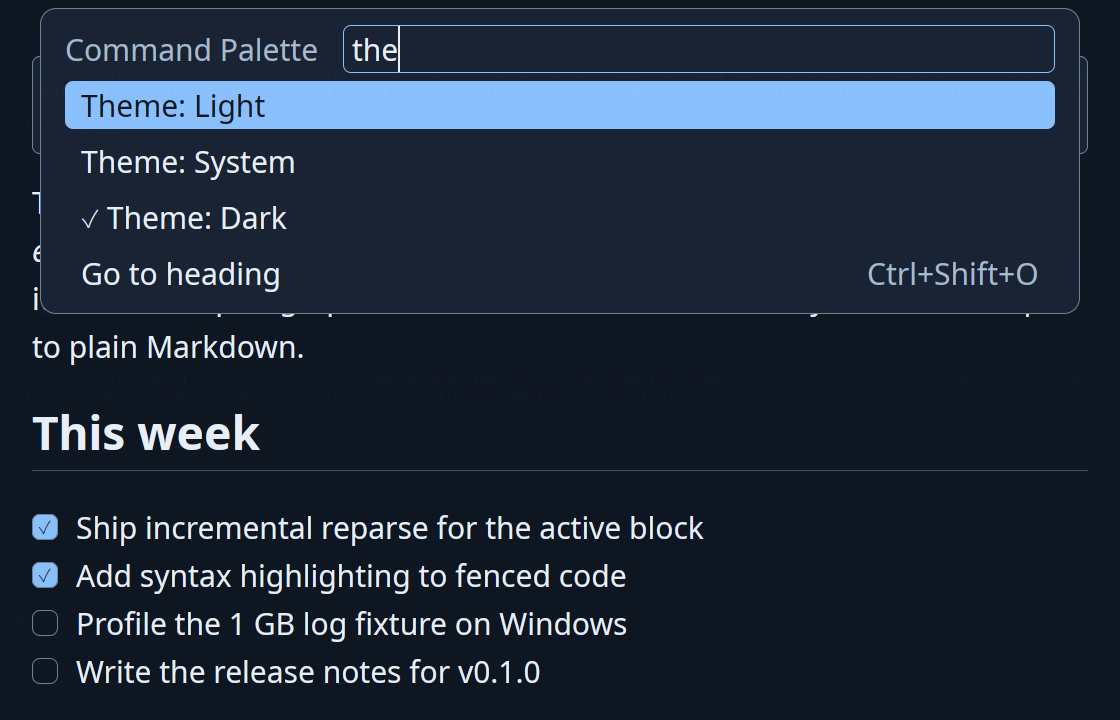
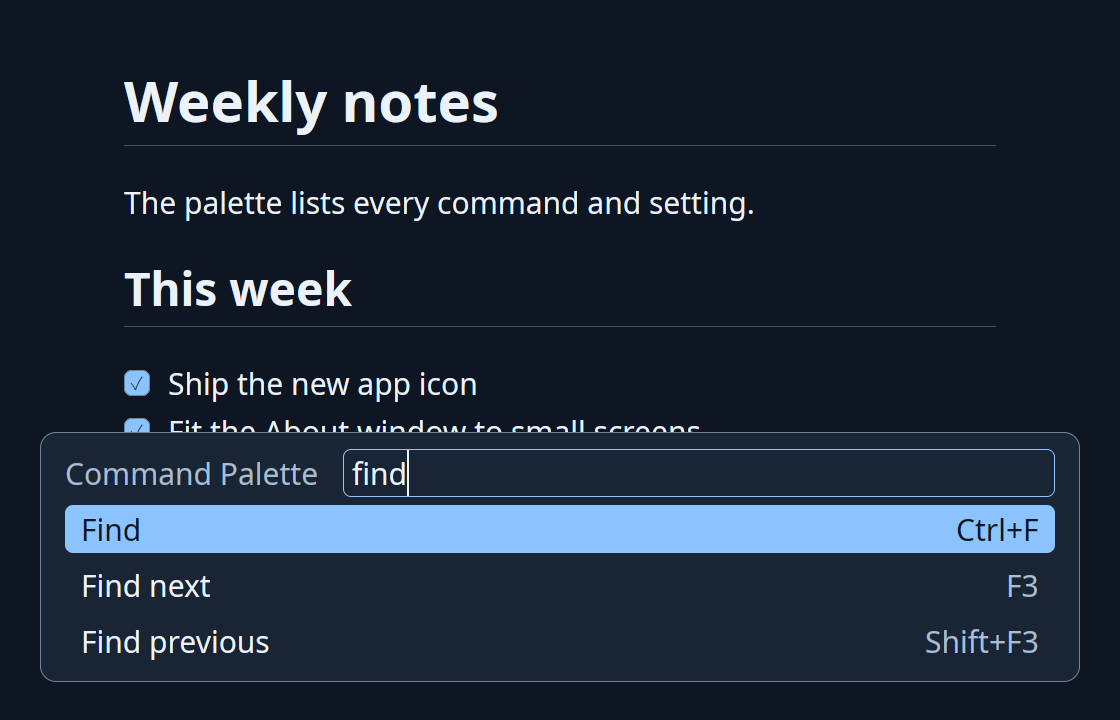
site: recapture the screenshot gallery; scroll hints; grid dots around the install cards
From a second web-design review of the live site. The three gallery images are new real
captures (lossless, 2x and Lanczos 1x); the old ones had a sentence split by a hard line break,
and their alt text claimed a 3 of 6 find counter and a shortcut on every palette row that the
images did not show. Alt text now matches each capture exactly. The compare table and the build
commands show an edge shadow while more is scrolled out of view, and a sparse grid-dot field sits
in the gaps around the install cards, never behind text.

diff --git a/site/index.html b/site/index.html
@@ -192,29 +192,29 @@
       <div class="section-head">
         <span class="eyebrow">On this machine</span>
         <h2>What it actually looks like</h2>
-        <p>Real captures of Tachyon 1.0 on Linux, rendered at 2x. Same binary, same editor, no mockups.</p>
+        <p>Real captures of Tachyon on Linux, rendered at 2x. Same binary, same editor, no mockups.</p>
       </div>
       <div class="shot-grid">
         <figure class="card">
           <img width="560" height="360" loading="lazy"
                src="assets/screenshots/find-bar.webp"
                srcset="assets/screenshots/find-bar.webp 1x, assets/screenshots/find-bar@2x.webp 2x"
-               alt="Find bar open with the query 'block': six matches highlighted across rendered and raw text, the current match emphasized, a 3 of 6 counter in the bar.">
+               alt="Find bar open with the query 'block': matches highlighted across the heading, a rendered paragraph, the raw paragraph being edited and the task list, a 5 of 7 counter in the bar.">
           <figcaption>Find highlights every match live, in rendered and raw text alike.</figcaption>
         </figure>
         <figure class="card">
           <img width="560" height="360" loading="lazy"
                src="assets/screenshots/plain-text-log.webp"
                srcset="assets/screenshots/plain-text-log.webp 1x, assets/screenshots/plain-text-log@2x.webp 2x"
-               alt="A 4,000-line synthetic log file open in plain-text mode: literal monospaced text, no Markdown rendering applied anywhere.">
+               alt="A 4,000-line synthetic log file open in plain-text mode: literal monospaced timestamped lines, no Markdown rendering applied anywhere.">
           <figcaption>A 4,000-line log opens in plain-text mode: no syntax hiding, no Markdown parsing overhead.</figcaption>
         </figure>
         <figure class="card">
           <img width="560" height="360" loading="lazy"
                src="assets/screenshots/command-palette.webp"
                srcset="assets/screenshots/command-palette.webp 1x, assets/screenshots/command-palette@2x.webp 2x"
-               alt="The command palette open over a document, filtered by a short query to a few commands, each row showing its keyboard shortcut.">
-          <figcaption>The command palette: every command and setting, with its shortcut, filtered as you type.</figcaption>
+               alt="The command palette open over a document and filtered by the query 'find': Find, Find next and Find previous, each with its keyboard shortcut.">
+          <figcaption>The command palette: commands and settings filtered as you type, each with its shortcut.</figcaption>
         </figure>
       </div>
     </div>

diff --git a/site/styles.css b/site/styles.css
@@ -63,6 +63,7 @@
   --gradient-rule: linear-gradient(90deg, rgba(0, 209, 255, 0) 0%, #2563ff 40%, #7c3aed 60%, rgba(124, 58, 237, 0) 100%);
   /* Text on --accent-soft: --accent itself measures 4.39:1 there, below the 4.5:1 minimum. */
   --pill-text: var(--blue-700);
+  --scroll-hint: rgba(11, 18, 32, 0.16);
 
   /* Type (tokens/typography.css) */
   --font-sans: "Inter", ui-sans-serif, system-ui, -apple-system, "Segoe UI", sans-serif;
@@ -103,6 +104,7 @@
     --shadow-md: 0 0 0 1px rgba(0, 209, 255, 0.06), 0 16px 40px -18px rgba(0, 0, 0, 0.7), 0 10px 30px -16px rgba(37, 99, 255, 0.28);
     --shadow-lg: 0 0 0 1px rgba(0, 209, 255, 0.08), 0 30px 80px -30px rgba(0, 0, 0, 0.8), 0 20px 60px -24px rgba(0, 209, 255, 0.24);
     --pill-text: var(--text-link);
+    --scroll-hint: rgba(0, 0, 0, 0.55);
   }
 }
 
@@ -598,6 +600,7 @@ main > section.tint {
 
 .tint .card {
   background: var(--surface-page);
+  --scroll-bg: var(--surface-page);
 }
 
 .card.pad {
@@ -666,6 +669,20 @@ main > section.tint {
 
 .table-scroll {
   overflow-x: auto;
+  --scroll-bg: var(--surface-card);
+}
+
+/* Scroll hint for content wider than its box (the compare table and the build commands on a
+   narrow screen): a soft edge shadow where more content is hidden, covered by an opaque fade that
+   scrolls with the content, so the shadow disappears once that end is reached. Static, no JS. */
+.card.table-scroll,
+pre.code-block {
+  background:
+    linear-gradient(to right, var(--scroll-bg) 30%, transparent) left / 32px 100% no-repeat local,
+    linear-gradient(to left, var(--scroll-bg) 30%, transparent) right / 32px 100% no-repeat local,
+    radial-gradient(farthest-side at 0 50%, var(--scroll-hint), transparent) left / 12px 100% no-repeat scroll,
+    radial-gradient(farthest-side at 100% 50%, var(--scroll-hint), transparent) right / 12px 100% no-repeat scroll,
+    var(--scroll-bg);
 }
 
 .data-table {
@@ -1002,10 +1019,16 @@ main > section.tint {
 }
 
 /* Install */
+/* Grid dots (concept sheet 6): one sparse, low-contrast field that shows only in the gaps around
+   the opaque install cards, never behind text. */
 .install-grid {
   display: grid;
   grid-template-columns: repeat(auto-fit, minmax(260px, 1fr));
   gap: 20px;
+  padding: 24px;
+  margin: 0 -24px;
+  background-image: radial-gradient(var(--border-default) 1px, transparent 1.5px);
+  background-size: 24px 24px;
 }
 
 .install-card {
@@ -1050,7 +1073,7 @@ main > section.tint {
   margin: 16px 0 0;
   padding: 18px 20px;
   overflow-x: auto;
-  background: var(--surface-page);
+  --scroll-bg: var(--surface-page);
   border: 1px solid var(--border-subtle);
   border-radius: var(--radius-md);
   font: 14px/1.6 var(--font-mono);

diff --git a/CHANGELOG.md b/CHANGELOG.md
@@ -18,7 +18,8 @@ All notable user-visible changes are recorded here. The format follows
   Distraction-free features, and a new screenshot in the hero (heading, table, highlighted code
   and tasks around a raw paragraph) inside the concept's orbit ring. The hero fits the first
   screen, the header leads with Download, and the page self-hosts its font (Inter) and icons, so
-  it needs no font or icon service. New favicon and social preview image.
+  it needs no font or icon service. New favicon and social preview image. The screenshot gallery
+  is recaptured from the current build, and wide tables and commands show a scroll hint on phones.
 - Windows (installed package): Markdown and text files get their own document icons in
   Explorer instead of the app icon, so a file no longer looks like the app.
 - The About window follows the concept artwork: the Tachyon logo, a one-line tagline, a
